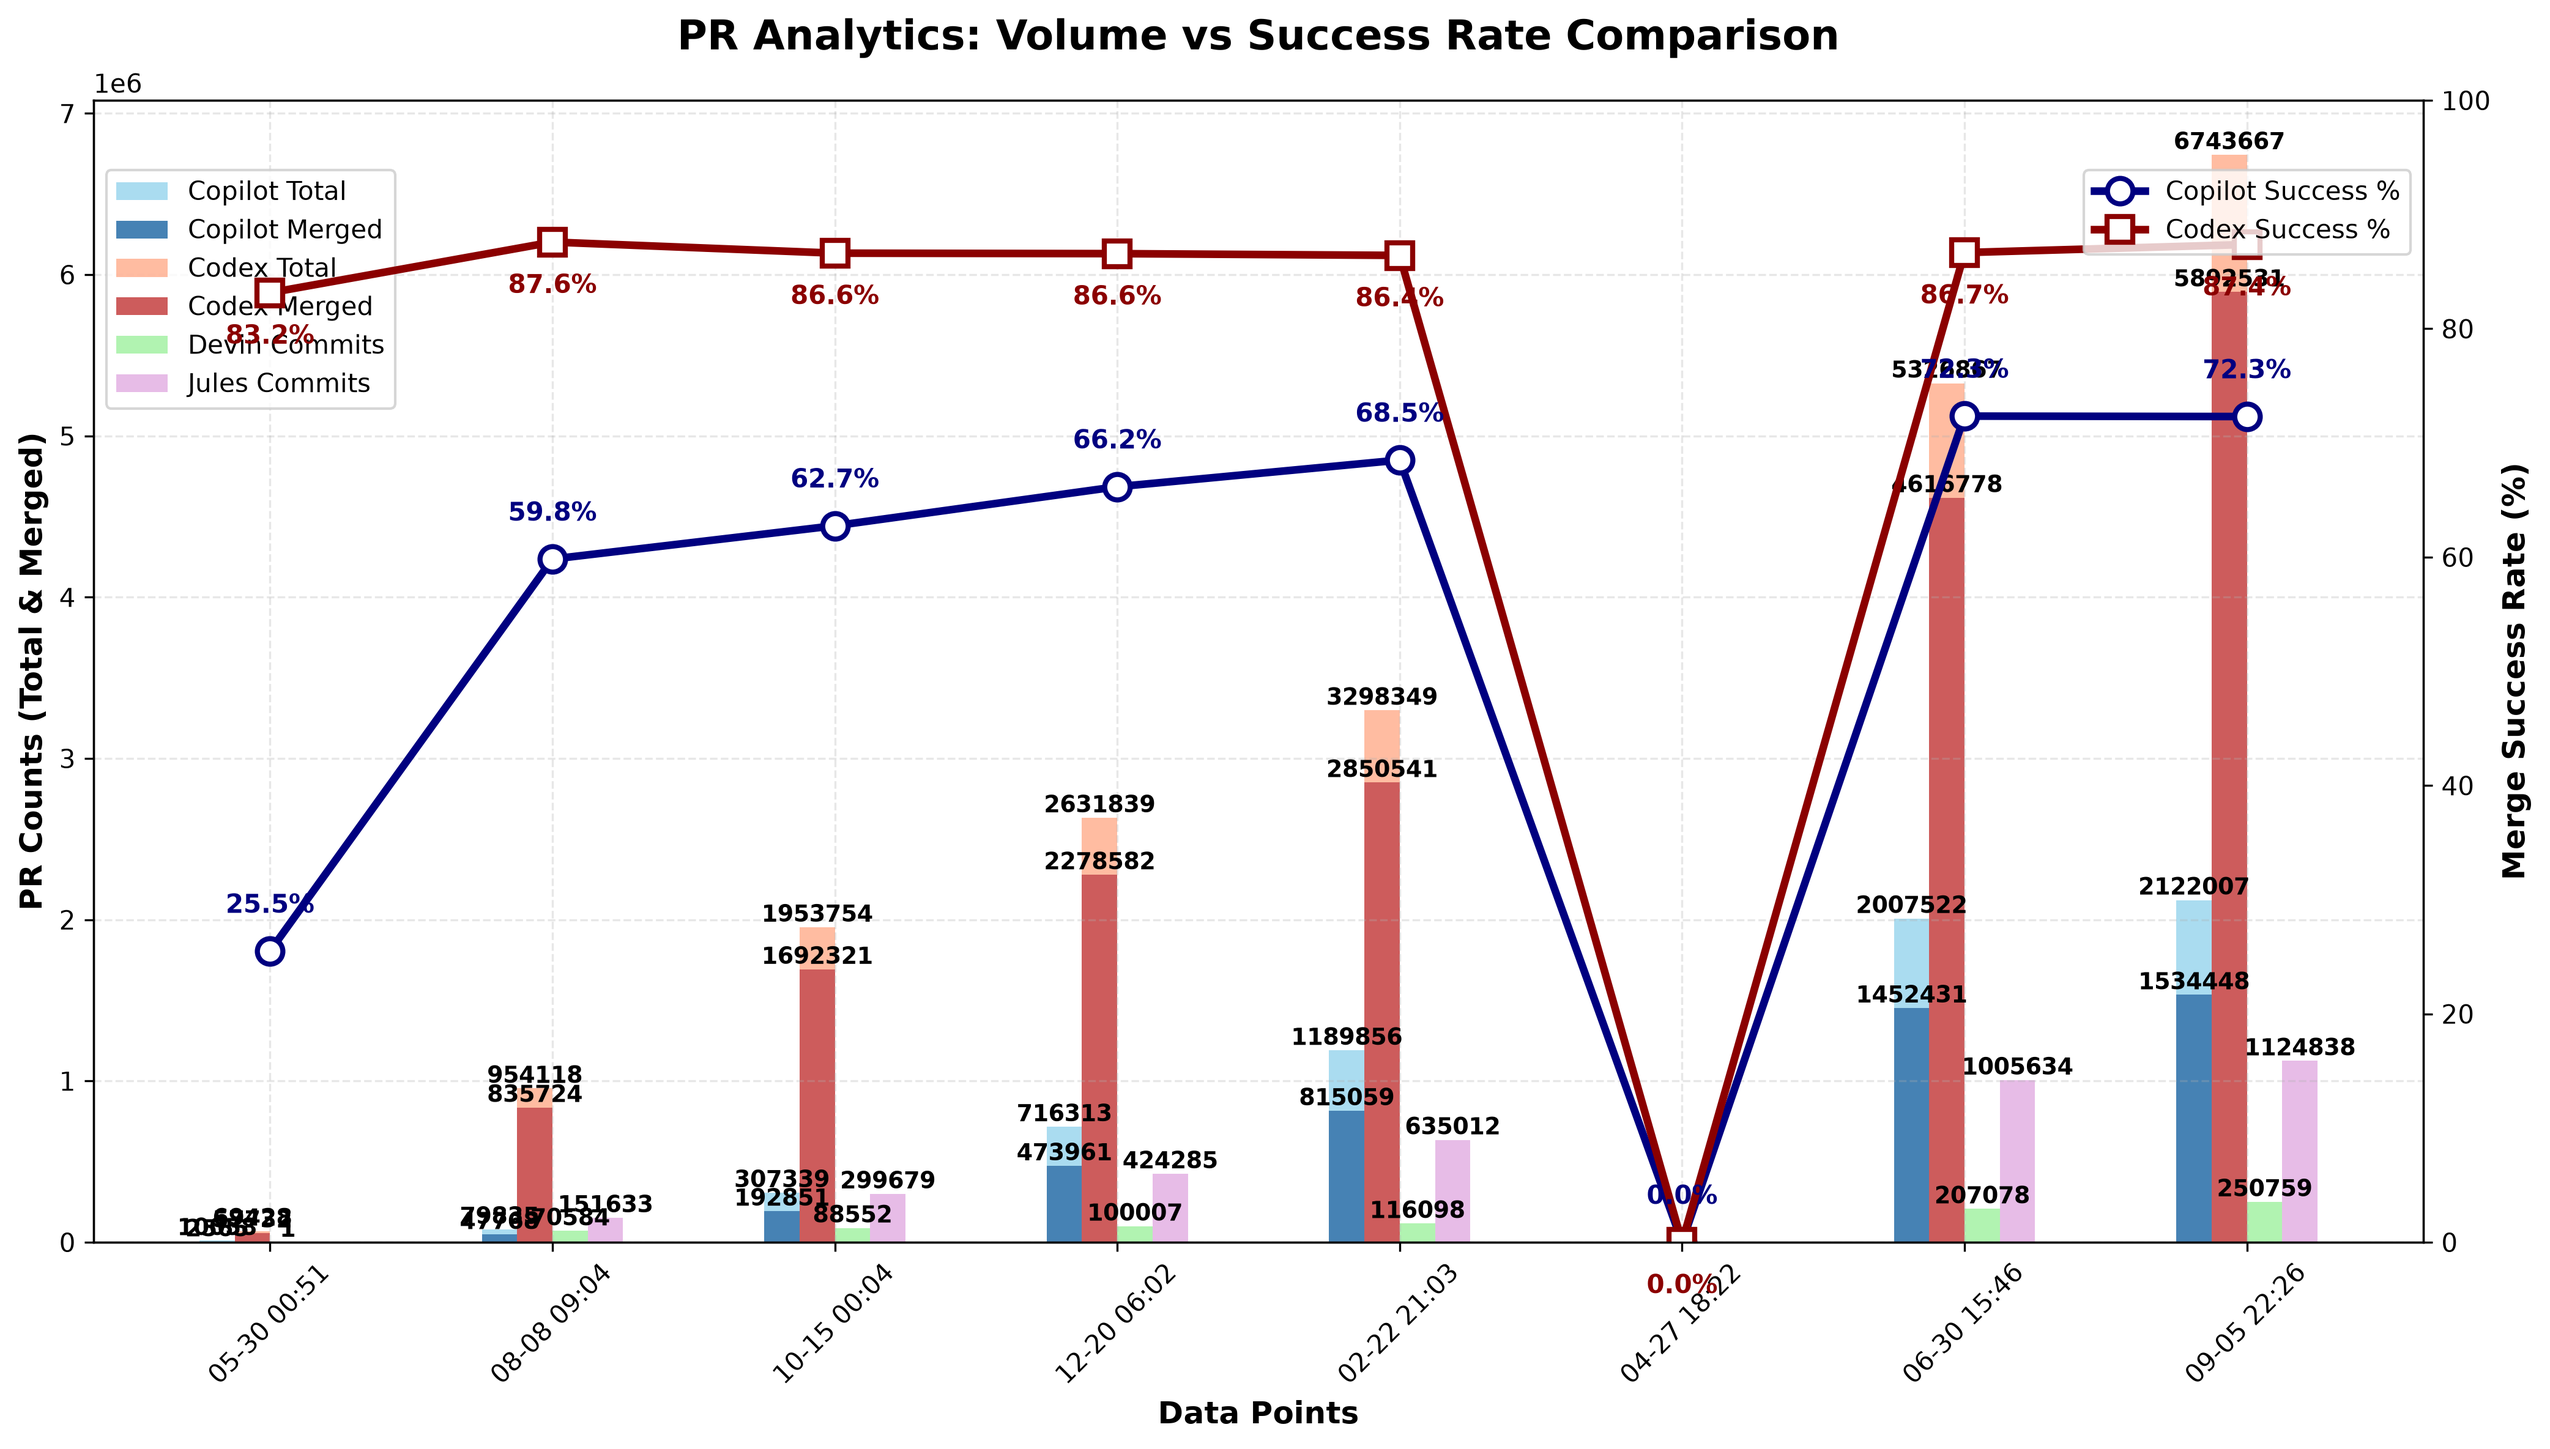
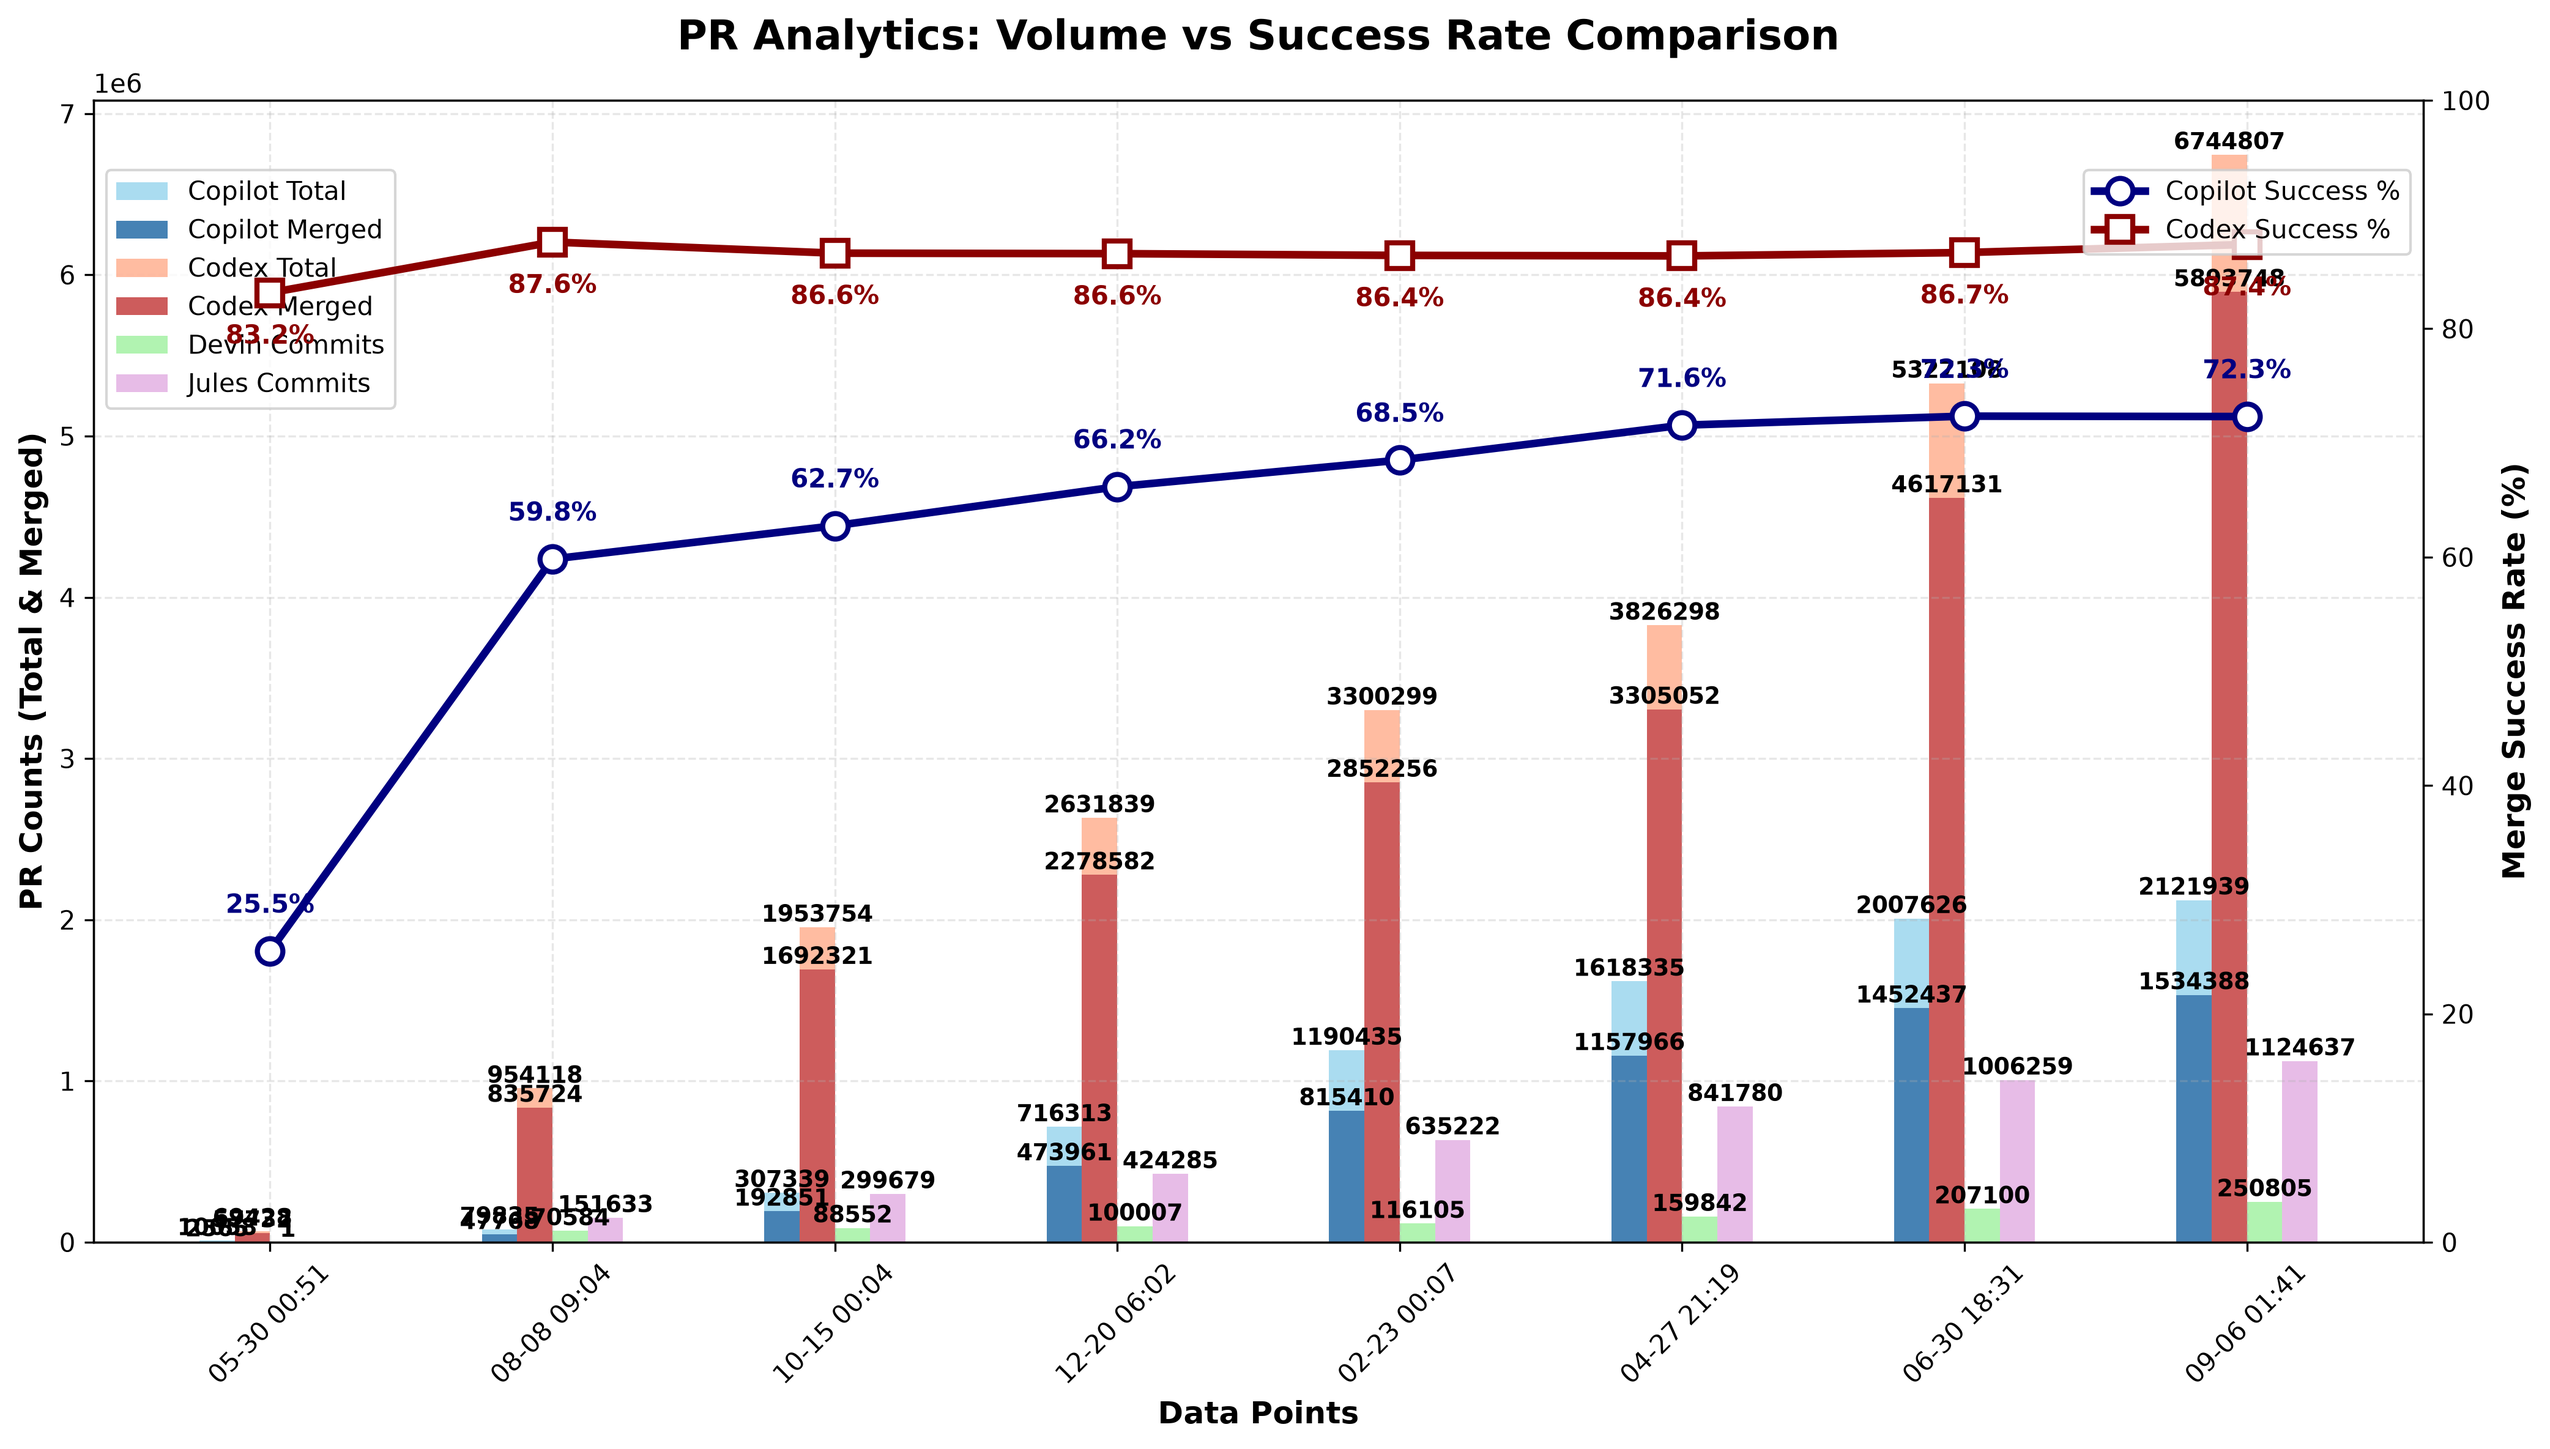
chore: update PR‑approval chart

diff --git a/docs/index.html b/docs/index.html
@@ -3605,6 +3605,7 @@
                         <td>N/A</td>
                         <td>N/A</td>
                         <td>N/A</td>
+                        <td>N/A</td>
                     </tr>
                     <tr>
                         <td>Codex</td>
@@ -7168,27 +7169,28 @@
                         <td>N/A</td>
                         <td>N/A</td>
                         <td>N/A</td>
+                        <td>N/A</td>
                     </tr>
                 <tr>
                         <td>Devin</td>
                         <td>N/A</td>
                         <td>N/A</td>
                         <td>N/A</td>
-                        <td>250,759</td>
+                        <td>250,805</td>
                     </tr>
                     <tr>
                         <td>Jules</td>
                         <td>N/A</td>
                         <td>N/A</td>
                         <td>N/A</td>
-                        <td>1,124,838</td>
+                        <td>1,124,637</td>
                     </tr>
                     </tbody>
             </table>
         </section>
 
         <footer>
-            <p>Last updated: <span id="last-updated">September 05, 2026 22:26 UTC</span></p>
+            <p>Last updated: <span id="last-updated">September 06, 2026 01:41 UTC</span></p>
             <p><a href="https://github.com/aavetis/ai-pr-watcher">View on GitHub</a></p>
         </footer>
     </div>

diff --git a/README.md b/README.md
@@ -19,7 +19,7 @@ Explore the GitHub search queries used:
 
 | Service | Total PRs | Merged PRs | Merge Rate | Total Commits |
 | ------- | --------- | ---------- | ---------- | ------------- |
-| Copilot | 2,122,007 | 1,534,448 | 72.31% | N/A           |
-| Codex   | 6,743,667 | 5,892,531 | 87.38% | N/A           |
-| Devin   | N/A       | N/A        | N/A        | 250,759 |
-| Jules   | N/A       | N/A        | N/A        | 1,124,838 |
+| Copilot | 2,121,939 | 1,534,388 | 72.31% | N/A           |
+| Codex   | 6,744,807 | 5,893,748 | 87.38% | N/A           |
+| Devin   | N/A       | N/A        | N/A        | 250,805 |
+| Jules   | N/A       | N/A        | N/A        | 1,124,637 |
